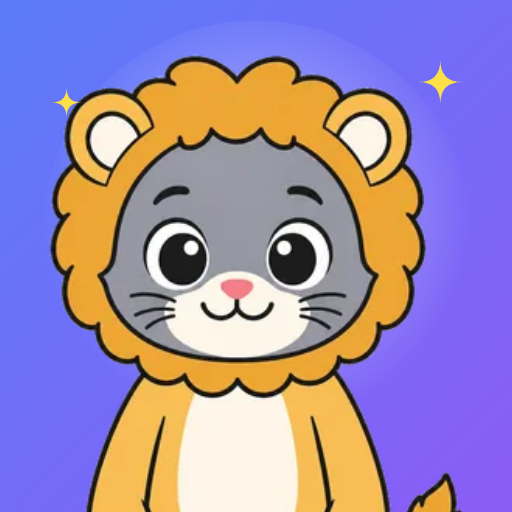
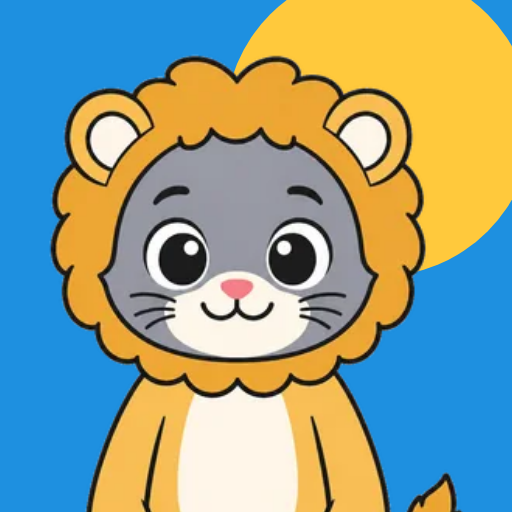
El ícono, la pizarra y las páginas legales, con la paleta nueva
- Ícono y tarjeta para compartir: la escena de la tarjeta del inicio (cielo
  plano, sol girasol, la mascota), sin el degradado azul y violeta ni los
  destellos. Regenerados con herramientas/generar-iconos.js, también los de Play.
- Pizarra: los lápices en la tinta, el azul de los botones y el coral.
- Privacidad y términos: la paleta y la escala de letra de DESIGN.md; la caja
  del resumen, plana (no se aprieta).
- DESIGN.md: el tamaño de los títulos de sección (1,25rem) y los colores de
  cada juego, que son identidad del juego y no de la interfaz.

diff --git a/herramientas/icono.html b/herramientas/icono.html
@@ -6,9 +6,9 @@
 <style>
   html, body { margin: 0; padding: 0; background: transparent; overflow: hidden; }
   @font-face {
-    /* sin espacio en el nombre: dentro de un atributo de SVG, «Baloo 2»
-       sin comillas no es un nombre de fuente válido */
-    font-family: Baloo2;
+    /* el mismo nombre que en la app; en los atributos del SVG va entre
+       comillas simples, porque sin comillas «Baloo 2» no es un nombre válido */
+    font-family: 'Baloo 2';
     src: url('../assets/fuentes/baloo2.woff2') format('woff2');
     font-weight: 400 800;
   }
@@ -19,10 +19,10 @@
      para sacarle una captura; también se puede abrir a mano para verla.
 
      El ícono es la mascota —el gato disfrazado de león— asomándose por el
-     borde de abajo sobre el degradado azul y violeta de la app. Antes era un
-     globo terráqueo, que venía de cuando la app se llamaba «Aprender
-     Jugando» y era sólo de geografía: con el nombre nuevo, lo que tiene que
-     reconocer un chico en la pantalla del celular es al bichito.
+     borde de abajo, con un sol girasol atrás, sobre el cielo plano de la
+     portada: es la misma escena de la tarjeta del inicio, así que lo que el
+     chico toca en el celular y lo primero que ve adentro son lo mismo. Sin
+     degradados ni destellos, como el resto de la app (ver DESIGN.md).
 
      Parámetros:
        ?lado=192       el tamaño
@@ -57,52 +57,37 @@ function mascota(anchoCabeza, cx, cy) {
     '" width="' + (IMG.ancho * s).toFixed(1) + '" height="' + (IMG.alto * s).toFixed(1) + '"/>';
 }
 
-function destellos(lista, k) {
-  return lista.map(function (d) {
-    var x = d[0], y = d[1], r = d[2] * k;
-    return '<path d="M' + x + ' ' + (y - r) + ' Q' + x + ' ' + y + ' ' + (x + r) + ' ' + y +
-      ' Q' + x + ' ' + y + ' ' + x + ' ' + (y + r) + ' Q' + x + ' ' + y + ' ' + (x - r) + ' ' + y +
-      ' Q' + x + ' ' + y + ' ' + x + ' ' + (y - r) + 'Z" fill="#fde047"/>';
-  }).join('');
-}
+// los colores de la portada: el cielo y el sol (DESIGN.md, «cielo» y «girasol»)
+var CIELO = '#1E90E0', SOL = '#FFC93C';
 
 var partes = [
   '<svg width="' + SALIDA_ANCHO + '" height="' + SALIDA_ALTO + '" viewBox="0 0 ' + ANCHO + ' ' + ALTO +
     '" preserveAspectRatio="xMidYMid slice" xmlns="http://www.w3.org/2000/svg">',
   '<defs>',
-    '<linearGradient id="fondo" x1="0" y1="0" x2="1" y2="1">',
-      '<stop offset="0" stop-color="#5b7cfa"/><stop offset="1" stop-color="#8b5cf6"/>',
-    '</linearGradient>',
-    '<radialGradient id="luz" cx="0.5" cy="0.45" r="0.5">',
-      '<stop offset="0" stop-color="#ffffff" stop-opacity=".55"/>',
-      '<stop offset="1" stop-color="#ffffff" stop-opacity="0"/>',
-    '</radialGradient>',
     '<clipPath id="recorte"><rect width="' + ANCHO + '" height="' + ALTO + '" rx="' + radio + '"/></clipPath>',
   '</defs>',
   '<g clip-path="url(#recorte)">',
-  '<rect width="' + ANCHO + '" height="' + ALTO + '" fill="url(#fondo)"/>'
+  '<rect width="' + ANCHO + '" height="' + ALTO + '" fill="' + CIELO + '"/>'
 ];
 
 if (COMPARTIR) {
   partes.push(
-    '<circle cx="300" cy="330" r="300" fill="url(#luz)"/>',
-    '<ellipse cx="300" cy="700" rx="420" ry="170" fill="#ffffff" opacity=".18"/>',
+    '<circle cx="300" cy="250" r="230" fill="' + SOL + '"/>',
     mascota(360, 300, 290),
-    destellos([[560, 120, 22], [110, 110, 16], [540, 470, 14]], 1),
-    '<text x="640" y="280" font-family="Baloo2, sans-serif" font-weight="800" font-size="104" fill="#ffffff">Bichito</text>',
-    '<text x="640" y="380" font-family="Baloo2, sans-serif" font-weight="800" font-size="104" fill="#fde047">Curioso</text>',
-    '<text x="644" y="450" font-family="Baloo2, sans-serif" font-weight="600" font-size="34" fill="#ffffff">Juegos y lecciones para chicos</text>',
-    '<text x="644" y="494" font-family="Baloo2, sans-serif" font-weight="600" font-size="34" fill="#ffffff" opacity=".9">de 4 a 12 años</text>'
+    '<text x="640" y="280" font-family="\'Baloo 2\', sans-serif" font-weight="800" font-size="104" fill="#ffffff">Bichito</text>',
+    '<text x="640" y="380" font-family="\'Baloo 2\', sans-serif" font-weight="800" font-size="104" fill="#ffffff">Curioso</text>',
+    '<text x="644" y="450" font-family="\'Baloo 2\', sans-serif" font-weight="600" font-size="34" fill="#ffffff">Juegos y lecciones para chicos</text>',
+    '<text x="644" y="494" font-family="\'Baloo 2\', sans-serif" font-weight="600" font-size="34" fill="#ffffff" opacity=".9">de 4 a 12 años</text>'
   );
 } else {
   /* La cabeza ocupa el 78% del ícono (menos en el maskable, que Android
      recorta en círculo) y el cuerpo se sale por abajo: se asoma. */
   var util = 1 - RELLENO;
-  var k = LADO / 512;
   partes.push(
-    '<circle cx="' + LADO / 2 + '" cy="' + LADO * 0.46 + '" r="' + LADO * 0.42 * util + '" fill="url(#luz)"/>',
-    mascota(LADO * 0.78 * util, LADO / 2, LADO * (0.5 - 0.06 * util)),
-    RELLENO ? '' : destellos([[LADO * 0.86, LADO * 0.16, 22], [LADO * 0.13, LADO * 0.2, 15]], k)
+    /* el sol asomado arriba a la derecha, atrás de la melena: la misma
+       escena de la tarjeta del inicio */
+    '<circle cx="' + LADO * (0.5 + 0.24 * util) + '" cy="' + LADO * (0.5 - 0.26 * util) + '" r="' + LADO * 0.3 * util + '" fill="' + SOL + '"/>',
+    mascota(LADO * 0.78 * util, LADO / 2, LADO * (0.5 - 0.06 * util))
   );
 }
 partes.push('</g></svg>');

diff --git a/index.html b/index.html
@@ -580,9 +580,9 @@ FINISH: unreviewed and undocumented is unfinished; this build ends with the fini
       <div class="pizarra-barra">
         <span class="pizarra-titulo"><span data-ico="lapiz" aria-hidden="true"></span> Pizarra</span>
         <div class="pizarra-herramientas" role="toolbar" aria-label="Herramientas de la pizarra">
-          <button class="pizarra-color" type="button" data-color="#0f172a" aria-label="Lápiz negro" aria-pressed="true"><i style="background:#0f172a"></i></button>
-          <button class="pizarra-color" type="button" data-color="#2563eb" aria-label="Lápiz azul" aria-pressed="false"><i style="background:#2563eb"></i></button>
-          <button class="pizarra-color" type="button" data-color="#dc2626" aria-label="Lápiz rojo" aria-pressed="false"><i style="background:#dc2626"></i></button>
+          <button class="pizarra-color" type="button" data-color="#27304A" aria-label="Lápiz negro" aria-pressed="true"><i style="background:#27304A"></i></button>
+          <button class="pizarra-color" type="button" data-color="#1673C4" aria-label="Lápiz azul" aria-pressed="false"><i style="background:#1673C4"></i></button>
+          <button class="pizarra-color" type="button" data-color="#E5533D" aria-label="Lápiz rojo" aria-pressed="false"><i style="background:#E5533D"></i></button>
           <button class="pizarra-boton" type="button" data-herramienta="goma" aria-label="Goma" aria-pressed="false"><span data-ico="goma" aria-hidden="true"></span></button>
           <button class="pizarra-boton" type="button" id="pizarra-deshacer" aria-label="Deshacer el último trazo" disabled><span data-ico="deshacer" aria-hidden="true"></span></button>
           <button class="pizarra-boton" type="button" id="pizarra-borrar" aria-label="Borrar todo" disabled><span data-ico="basura" aria-hidden="true"></span></button>

diff --git a/privacidad.html b/privacidad.html
@@ -15,7 +15,7 @@
     font-weight: 400 800;
     font-display: swap;
   }
-  :root { --tinta: #0f172a; --suave: #475569; --papel: #f3f7ff; --borde: #dde5f5; --azul: #1d4ed8; }
+  :root { --tinta: #27304A; --suave: #5B6478; --papel: #ffffff; --borde: #E3E8F0; --azul: #0F5796; }
   * { box-sizing: border-box; }
   body {
     margin: 0;
@@ -24,17 +24,18 @@
     font: 17px/1.6 'Baloo 2', 'Trebuchet MS', system-ui, sans-serif;
   }
   main { max-width: 720px; margin: 0 auto; padding: 24px 16px 60px; }
-  .marca { display: flex; align-items: center; gap: 12px; text-decoration: none; color: inherit; font-weight: 800; font-size: 1.2rem; }
-  .marca img { width: 48px; height: 48px; border-radius: 12px; }
-  h1 { font-size: clamp(1.8rem, 6vw, 2.4rem); line-height: 1.15; margin: 22px 0 4px; }
-  h2 { font-size: 1.3rem; margin: 30px 0 6px; }
+  .marca { display: flex; align-items: center; gap: 12px; text-decoration: none; color: inherit; font-weight: 800; font-size: 1.15rem; }
+  .marca img { width: 48px; height: 48px; }
+  h1 { font-size: clamp(1.7rem, 5vw, 2.3rem); line-height: 1.1; margin: 22px 0 4px; }
+  h2 { font-size: 1.25rem; line-height: 1.2; margin: 30px 0 6px; }
   .fecha { color: var(--suave); margin: 0 0 20px; }
   .resumen {
-    background: #fff; border: 2px solid var(--borde); border-radius: 18px;
-    padding: 14px 18px; box-shadow: 0 4px 0 #c9d6ee;
+    background: #fff; border: 2px solid var(--borde); border-radius: 22px;
+    padding: 14px 18px;
   }
   .resumen ul { margin: 6px 0 0; padding-left: 20px; }
-  a { color: var(--azul); }
+  a { color: var(--azul); text-underline-offset: .2em; text-decoration-thickness: 2px; }
+  ::selection { background: #DDEEFC; }
   li { margin: 4px 0; }
 </style>
 </head>

diff --git a/terminos.html b/terminos.html
@@ -13,7 +13,7 @@
     font-weight: 400 800;
     font-display: swap;
   }
-  :root { --tinta: #0f172a; --suave: #475569; --papel: #f3f7ff; --borde: #dde5f5; --azul: #1d4ed8; }
+  :root { --tinta: #27304A; --suave: #5B6478; --papel: #ffffff; --borde: #E3E8F0; --azul: #0F5796; }
   * { box-sizing: border-box; }
   body {
     margin: 0;
@@ -22,17 +22,18 @@
     font: 17px/1.6 'Baloo 2', 'Trebuchet MS', system-ui, sans-serif;
   }
   main { max-width: 720px; margin: 0 auto; padding: 24px 16px 60px; }
-  .marca { display: flex; align-items: center; gap: 12px; text-decoration: none; color: inherit; font-weight: 800; font-size: 1.2rem; }
-  .marca img { width: 48px; height: 48px; border-radius: 12px; }
-  h1 { font-size: clamp(1.8rem, 6vw, 2.4rem); line-height: 1.15; margin: 22px 0 4px; }
-  h2 { font-size: 1.3rem; margin: 30px 0 6px; }
+  .marca { display: flex; align-items: center; gap: 12px; text-decoration: none; color: inherit; font-weight: 800; font-size: 1.15rem; }
+  .marca img { width: 48px; height: 48px; }
+  h1 { font-size: clamp(1.7rem, 5vw, 2.3rem); line-height: 1.1; margin: 22px 0 4px; }
+  h2 { font-size: 1.25rem; line-height: 1.2; margin: 30px 0 6px; }
   .fecha { color: var(--suave); margin: 0 0 20px; }
   .resumen {
-    background: #fff; border: 2px solid var(--borde); border-radius: 18px;
-    padding: 14px 18px; box-shadow: 0 4px 0 #c9d6ee;
+    background: #fff; border: 2px solid var(--borde); border-radius: 22px;
+    padding: 14px 18px;
   }
   .resumen ul { margin: 6px 0 0; padding-left: 20px; }
-  a { color: var(--azul); }
+  a { color: var(--azul); text-underline-offset: .2em; text-decoration-thickness: 2px; }
+  ::selection { background: #DDEEFC; }
   li { margin: 4px 0; }
 </style>
 </head>

diff --git a/js/nucleo/pizarra.js b/js/nucleo/pizarra.js
@@ -23,7 +23,7 @@ window.Pizarra = (function () {
   var actual = null;          // el trazo que se está haciendo
   var dedo = null;            // qué dedo o lápiz lo está haciendo
   var herramienta = 'lapiz';
-  var color = '#0f172a';
+  var color = '#27304A';
   var ancho = 0, alto = 0;
 
   function iniciar() {

diff --git a/sw.js b/sw.js
@@ -2,7 +2,7 @@
    Guarda toda la app en el celular para que funcione sin internet. */
 'use strict';
 
-const VERSION = 'aprender-jugando-ca85296b20';
+const VERSION = 'aprender-jugando-40bac46bac';
 const ARCHIVOS = [
   "./assets/banderas/ad.png",
   "./assets/banderas/ae.png",

diff --git a/DESIGN.md b/DESIGN.md
@@ -39,6 +39,11 @@ typography:
     fontWeight: 800
     lineHeight: 1.1
     letterSpacing: "-0.01em"
+  section:
+    fontFamily: "Baloo 2, Trebuchet MS, Segoe UI, system-ui, sans-serif"
+    fontSize: "1.25rem"
+    fontWeight: 800
+    lineHeight: 1.2
   title:
     fontFamily: "Baloo 2, Trebuchet MS, Segoe UI, system-ui, sans-serif"
     fontSize: "1.15rem"
@@ -146,6 +151,7 @@ Blanco y azul marino de base; el color vive en objetos chicos y saturados, y cad
 ### Secondary
 - **Los primarios de juguete** (coral, girasol, verde, lila, más el cielo): los de los dibujos, las materias y las puertas del inicio. Coral es Matemática y la puerta de Jugar; girasol, Lengua, las estrellas, las monedas y las metas; verde, Ciencias; lila, Inglés y la puerta de Aprender; cielo, Geografía. No los pisa ningún tema: una estrella es amarilla aunque el chico se compre todo en verde.
 - **Oro y fuego**: el trazo de las estrellas y las monedas (oro) y la llama de la racha (fuego).
+- **Los colores de los juegos**: cada juego trae un color propio, escrito en su módulo (js/juegos/*.js), con su versión suave. Pinta sólo lo de ese juego: su círculo en la lista, los niveles de su camino, su cartel y su recomendación. Es identidad del juego, no de la interfaz, igual que los colores que son la pregunta misma («¿de qué color es?», las figuras, el reloj). Todos dan 3:1 o más contra el blanco del dibujo que llevan encima.
 
 ### Tertiary
 - **Acertar y errar** (exito / exito-osc / exito-suave y error / error-osc / error-suave): sólo para respuestas, sellos y avisos. Nunca los usa otra cosa, así que un color de reposo no se lee como una respuesta ya contestada.
@@ -176,6 +182,7 @@ Blanco y azul marino de base; el color vive en objetos chicos y saturados, y cad
 ### Hierarchy
 - **Display** (800, clamp(2.3rem, 10vw, 3.2rem), 1): el nombre de la app en la cortina de arranque. Sólo ahí.
 - **Headline** (800, clamp(1.7rem, 5vw, 2.3rem), 1.1): el título de cada pantalla y la frase del próximo paso (que llega a 2,7rem en pantalla ancha).
+- **Section** (800, 1.25rem, 1.2): el título de una sección adentro de la pantalla («Para hoy», «Cómo vas en cada materia»), escrito como frase y del color del texto.
 - **Title** (800, 1.15rem, 1.15): el nombre de una materia, un juego, una lección o una puerta (1,4rem).
 - **Body** (400, 1.0625rem, 1.45): bajadas, explicaciones, el texto de una lección (máximo 62ch).
 - **Label** (800, 0.8rem, 0.03em, mayúsculas): sólo la banda de los recuadros de números de los resultados y del perfil.

diff --git a/LEEME.md b/LEEME.md
@@ -1167,8 +1167,13 @@ borrarlo ahí es borrarlo del todo.
 ### Lo que ya está listo
 
 - **Ícono nuevo** con la mascota (el globo terráqueo era del nombre viejo), en
-  todos los tamaños y en la cortina de arranque, la bienvenida y la pantalla
-  de la mensualidad. Se regenera con `node herramientas/generar-iconos.js`.
+  todos los tamaños y en la bienvenida y la pantalla de la mensualidad. Es la
+  escena de la tarjeta del inicio: la mascota sobre el cielo plano de la
+  portada, con el sol girasol asomado arriba a la derecha (sin degradados).
+  Se dibuja en `herramientas/icono.html` y se regenera con
+  `node herramientas/generar-iconos.js`, que también saca la tarjeta para
+  compartir y los gráficos de Play. Los que ya lo tienen en Google Play hay
+  que subirlos a mano en Play Console.
 - **Política de privacidad** (`privacidad.html`) y **términos y suscripción**
   (`terminos.html`), enlazados desde el panel para padres y desde la pantalla
   de la mensualidad. Van guardados en el celular como el resto de la app.
